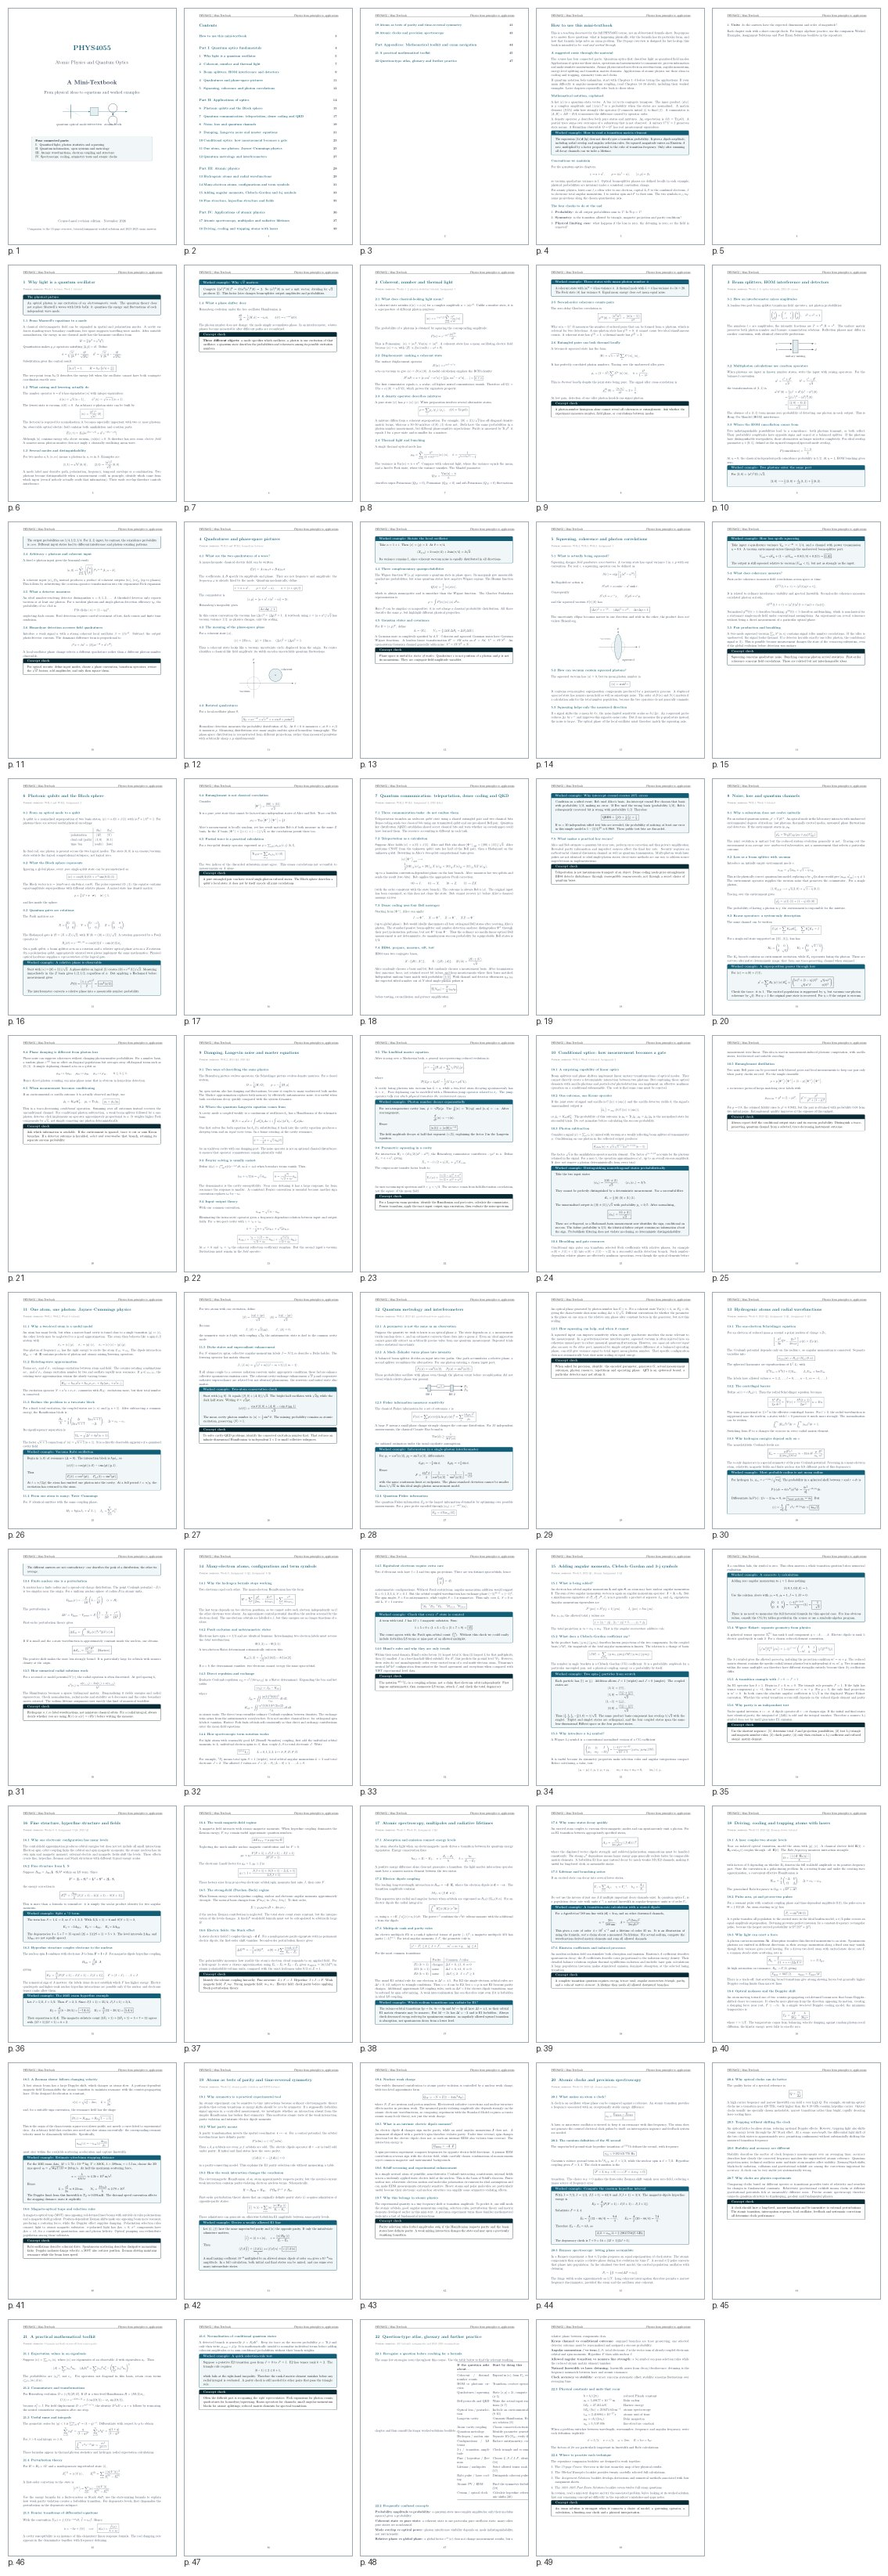
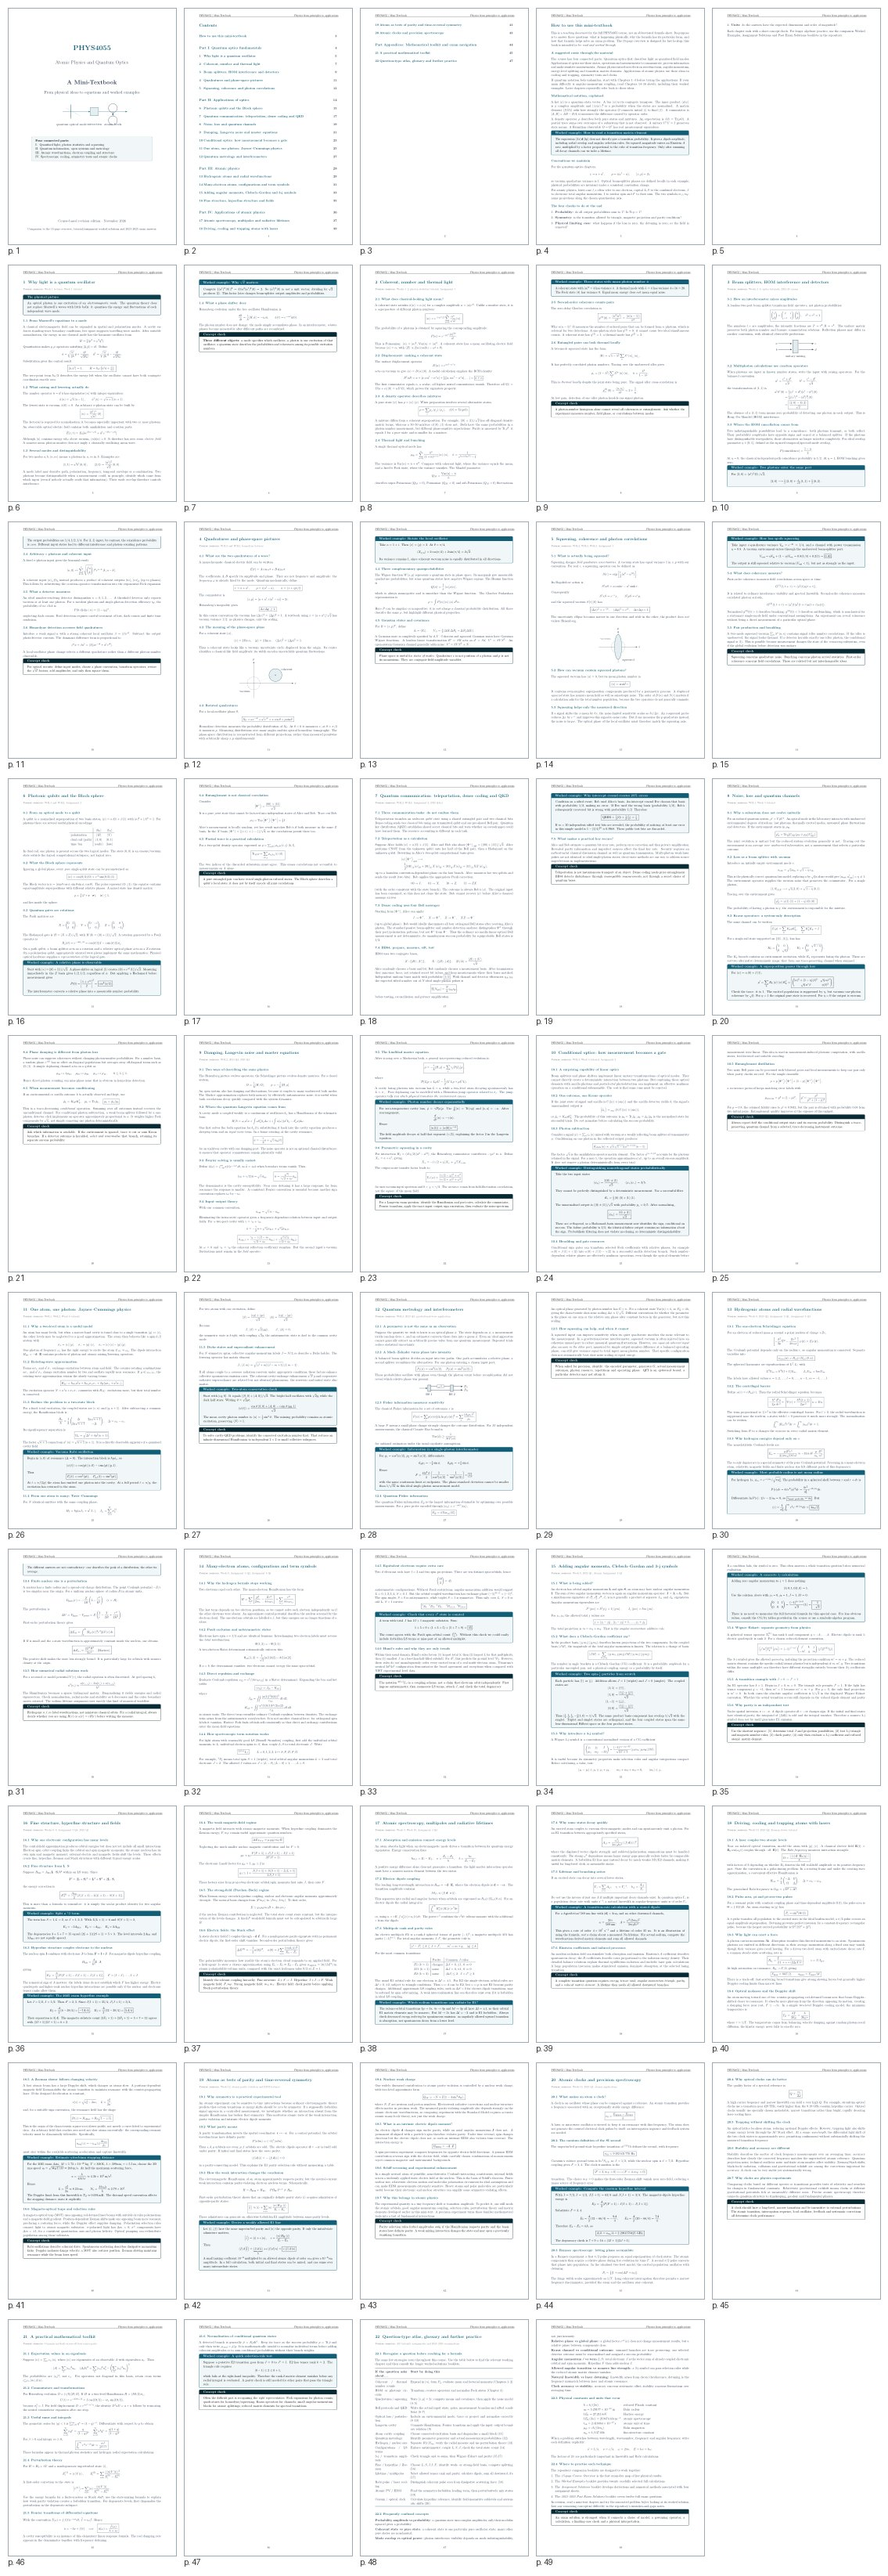
Publish PHYS4055 teaching mini-textbook with verified chapters and page previews

Changed region(s): [[0.4317, 0.8991, 0.5859, 0.9921], [0.6167, 0.8991, 0.7709, 0.9921]]

diff --git a/exam_prep/mini_textbook/PDF_BUILD_CHECK.md b/exam_prep/mini_textbook/PDF_BUILD_CHECK.md
@@ -5,5 +5,5 @@
 - Embedded worked examples: at least 15, checked
 - Chapters present: all 22
 - Source map and editable LaTeX: committed
-- Overfull LaTeX boxes: 1
-- Out-of-page text blocks: 7
+- Overfull LaTeX boxes: 0
+- Out-of-page text blocks: 0
